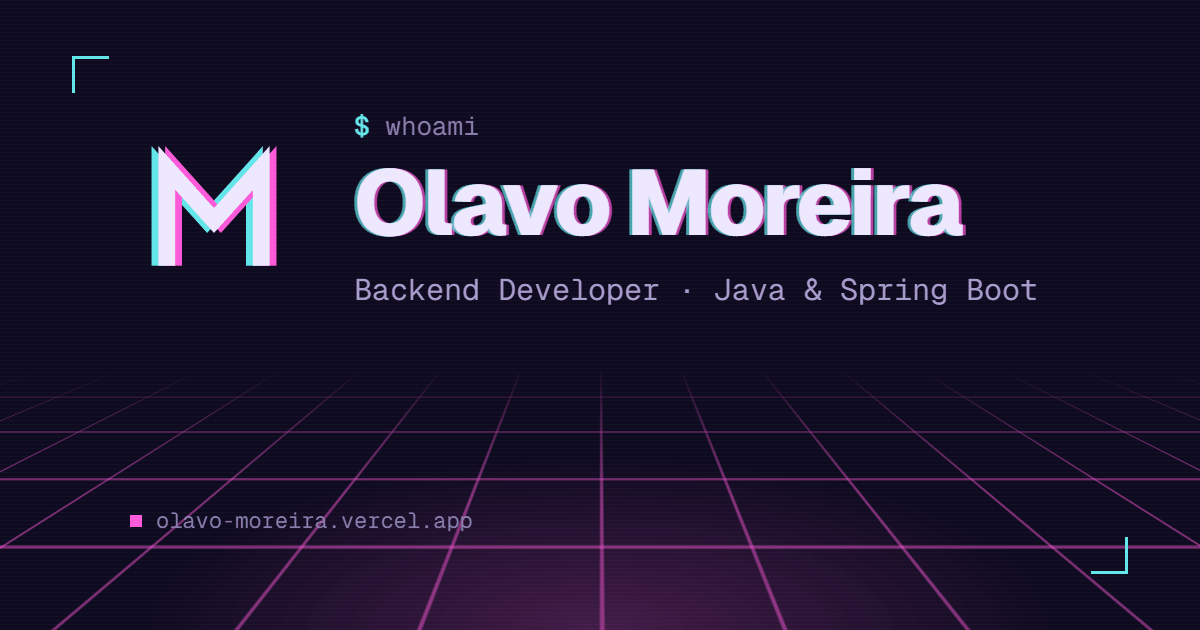
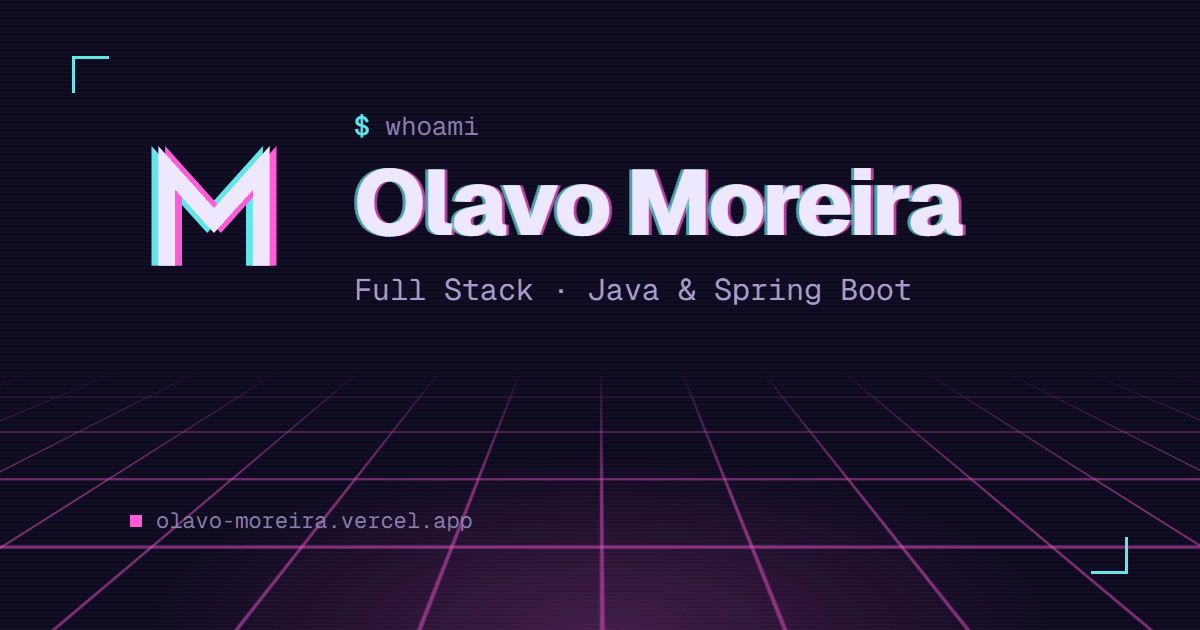
feat: posiciona como full stack e anima o whoami linha a linha
- Cargo vira Full Stack Developer com ênfase em Java & Spring Boot (hero,
  terminal, descrição do site, sobre, bio do autor e imagem OG).
- Descrição da Petize sem "trainee", citando os segmentos atendidos.
- Saída do whoami aparece linha a linha com glitch curto; respeita
  prefers-reduced-motion e preserva o brilho de fósforo ao terminar.

Changed region(s): [[0.2775, 0.4222, 0.8633, 0.4825]]

diff --git a/src/consts.ts b/src/consts.ts
@@ -3,7 +3,7 @@ import type { BlogCategory, IconMap, SocialLink, Site } from '@/types'
 export const SITE: Site = {
   title: 'Olavo Moreira',
   description:
-    'Backend Developer Java & Spring Boot. Estudos, trilhas e projetos sobre o ecossistema Java.',
+    'Full Stack Developer com ênfase em Java & Spring Boot. Estudos, trilhas e projetos sobre o ecossistema Java.',
   href: 'https://olavo-moreira.vercel.app',
   author: 'Olavo Moreira',
   locale: 'pt-BR',

diff --git a/src/content/authors/olavo.md b/src/content/authors/olavo.md
@@ -3,7 +3,7 @@ name: 'Olavo'
 pronouns: 'he/him'
 avatar: 'https://1.gravatar.com/avatar/1d9037306d61205c882041f584d41662d82de6771bf2550140cd63b995c89fe7?size=256'
 bio: '
-Backend Java Developer, contributing to a multi-tenant BaaS for the healthcare sector, building scalable solutions for digital banking, PIX, and credit operations (CCB).
+Full Stack Developer with an emphasis on Java & Spring Boot, building systems for financial markets, vacation rental management, and e-signature and digital document management.
 '
 github: 'https://github.com/olavomoreirap'
 linkedin: 'https://linkedin.com/in/olavomoreira'
